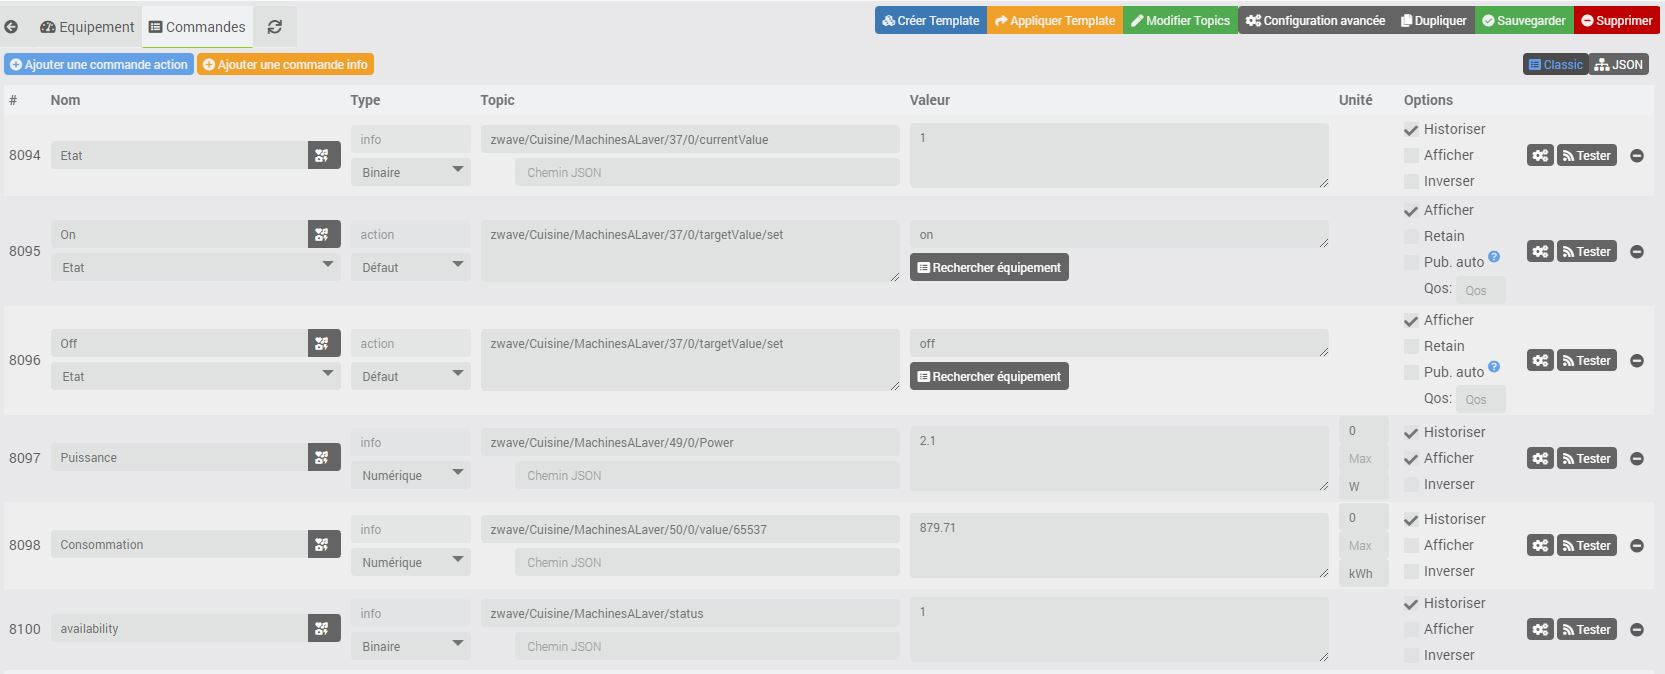
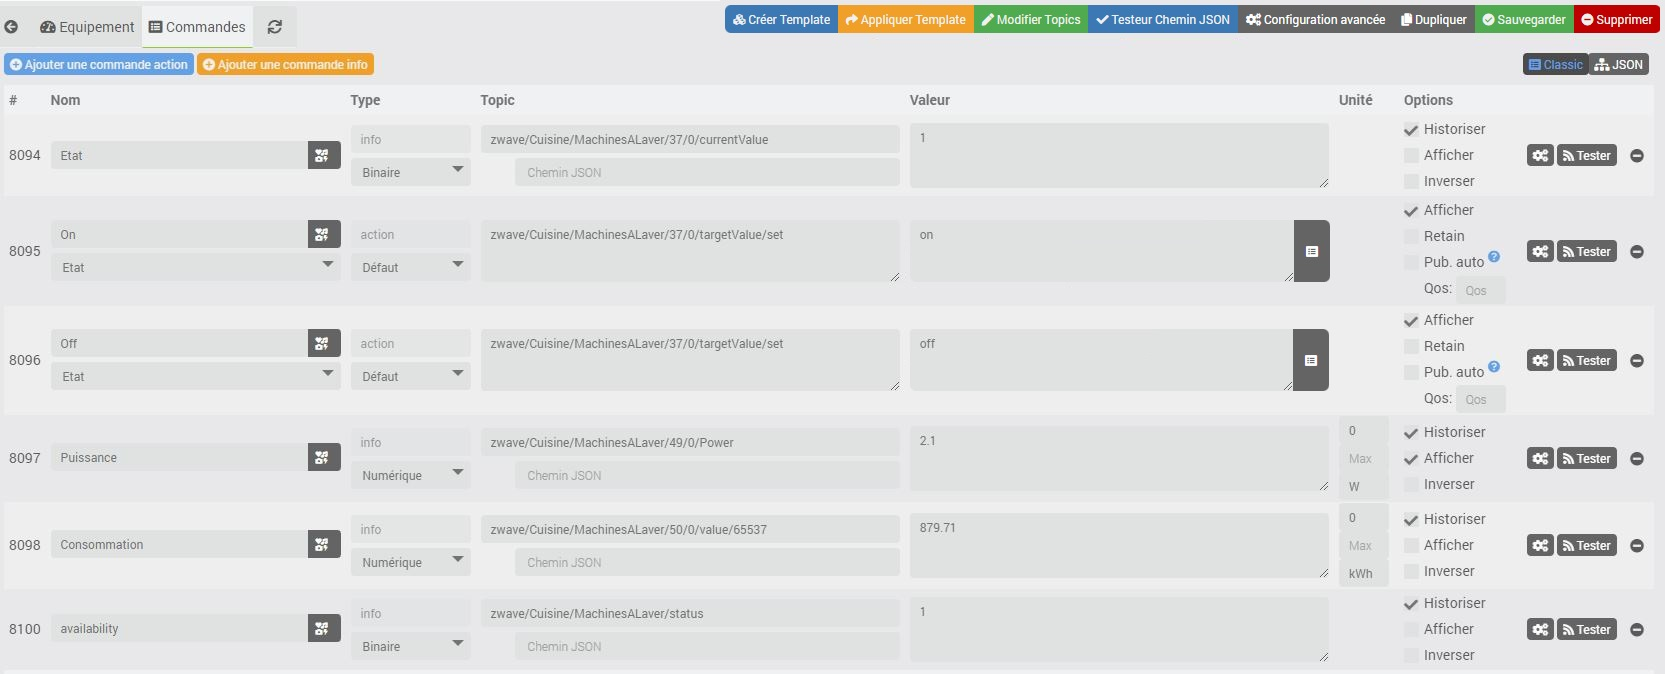
Add jsonPathTester (+ changelog + doc)

diff --git a/desktop/js/jMQTT.js b/desktop/js/jMQTT.js
@@ -494,6 +494,12 @@ $('.eqLogicAction[data-action=updateTopics]').off('click').on('click', function 
 	});
 });
 
+// On jsonPathTester click
+$('.eqLogicAction[data-action=jsonPathTester]').off('click').on('click', function () {
+	$('#md_modal').dialog({title: "{{Testeur de Chemin JSON}}"});
+	$('#md_modal').load('index.php?v=d&plugin=jMQTT&modal=jsonPathTester').dialog('open');
+});
+
 // On addMQTTInfo click
 $('.eqLogicAction[data-action=addMQTTInfo]').on('click', function() {
 	var _cmd = {type: 'info'};

diff --git a/desktop/modal/jsonPathTester.php b/desktop/modal/jsonPathTester.php
@@ -1,0 +1,79 @@
+<?php
+/* This file is part of Jeedom.
+*
+* Jeedom is free software: you can redistribute it and/or modify
+* it under the terms of the GNU General Public License as published by
+* the Free Software Foundation, either version 3 of the License, or
+* (at your option) any later version.
+*
+* Jeedom is distributed in the hope that it will be useful,
+* but WITHOUT ANY WARRANTY; without even the implied warranty of
+* MERCHANTABILITY or FITNESS FOR A PARTICULAR PURPOSE. See the
+* GNU General Public License for more details.
+*
+* You should have received a copy of the GNU General Public License
+* along with Jeedom. If not, see <http://www.gnu.org/licenses/>.
+*/
+
+if (!isConnect('admin')) {
+  throw new Exception('{{401 - Accès non autorisé}}');
+}
+?>
+
+<div id="div_alertExpressionTest" data-modalType="md_expressionTest"></div>
+<form class="form-horizontal" onsubmit="return false;" style="width:100%">
+  <div class="input-group input-group-sm" style="width:100%">
+    <span class="input-group-addon roundedLeft" style="width:20%"><i class="fas fa-truck-loading"></i> {{Payload}}</span>
+    <textarea class="form-control input-sm roundedRight" id="in_testPayload" style="min-height:80px;height:80px"></textarea>
+  </div>
+  <div class="input-group input-group-sm" style="width:100%">
+  </div>
+  <div class="input-group input-group-sm " style="width:100%">
+    <span class="input-group-addon roundedLeft" style="width:20%"><i class="fas fa-binoculars"></i> {{Chemin JSON}}</span>
+    <input class="form-control input-sm" id="in_testJsonPath">
+    <span class="input-group-btn">
+      <a class="btn btn-sm btn-default btn-success roundedRight" id="bt_executeTestJsonPath"><i class="fas fa-bolt"></i> {{Exécuter}}</a>
+    </span>
+  </div>
+</br>
+<legend id="out_status"><i class="fas fa-sign-in-alt"></i> {{Résultat}} <span id="out_message"></span></legend>
+<div id="div_expressionTestResult" style="width:100%"></div>
+<textarea class="form-control input-sm roundedRight" id="out_testResult" style="min-height:80px;height:80px"></textarea>
+</form>
+
+<script>
+$(function() {
+	if ($(window).width() > 800)
+		$('#md_modal').dialog("option", "width", 800);
+	if ($(window).height() > 330)
+		$('#md_modal').dialog("option", "height", 330);
+});
+
+$('#in_testJsonPath').keypress(function(event) {
+	if (event.which == 13) {
+		$('#bt_executeTestJsonPath').trigger('click');
+	}
+});
+
+$('#bt_executeTestJsonPath').on('click',function() {
+	$('#out_status').removeClass('success danger');
+	$('#out_testResult').empty();
+	$('#out_message').empty();
+	jmqtt.callPluginAjax({
+		data: {
+			action: "testJsonPath",
+			payload: $('#in_testPayload').val(),
+			jsonPath: $('#in_testJsonPath').val()
+		},
+		error: function (error) {
+			$('#out_status').addClass('danger');
+		},
+		success: function (data) {
+			console.log(data);
+			(data.success) ? $('#out_status').addClass('success') : $('#out_status').addClass('danger');
+			$('#out_testResult').append(data.value);
+			$('#out_message').append('[ ' + data.message + ' ]');
+		}
+	});
+});
+</script>

diff --git a/core/ajax/jMQTT.ajax.php b/core/ajax/jMQTT.ajax.php
@@ -314,6 +314,50 @@ try {
 		}
 	}
 
+	if (init('action') == 'testJsonPath') {
+		$payload = init('payload');
+		if ($payload == '') {
+			ajax::success(array('success' => false, 'message' => __('Pas de payload', __FILE__), 'value' => ''));
+			return;
+		}
+
+		$jsonArray = json_decode($payload, true);
+		if (!is_array($jsonArray) || json_last_error() != JSON_ERROR_NONE) {
+			if (json_last_error() == JSON_ERROR_NONE)
+				ajax::success(array('success' => false, 'message' => __("Problème de format JSON: Le message reçu n'est pas au format JSON.", __FILE__), 'value' => ''));
+			else
+				ajax::success(array('success' => false, 'message' => sprintf(__("Problème de format JSON: %1\$s (%2\$d)", __FILE__), json_last_error_msg(), json_last_error()), 'value' => ''));
+		}
+
+		if (file_exists(__DIR__ . '/../../resources/JsonPath-PHP/vendor/autoload.php'))
+			require_once __DIR__ . '/../../resources/JsonPath-PHP/vendor/autoload.php';
+		if (!class_exists('JsonPath\JsonObject'))
+			throw new Exception(__("La bibliothèque JsonPath-PHP n'a pas été trouvée, relancez les dépendances", __FILE__));
+
+		$jsonPath = init('jsonPath');
+		if ($jsonPath[0] != '$')
+			$jsonPath = '$' . $jsonPath;
+
+		// Create JsonObject for JsonPath
+		try {
+			$jsonobject = new JsonPath\JsonObject($jsonArray);
+			$value = $jsonobject->get($jsonPath);
+		} catch (Throwable $e) {
+			ajax::success(array('success' => false, 'message' => __("Exception: ", __FILE__) . $e->getMessage(), 'stack' => $e->getTraceAsString(), 'value' => ''));
+			if (log::getLogLevel(__CLASS__) > 100)
+				$this->getEqLogic()->log('warning', sprintf(__("Chemin JSON '%1\$s' de la commande #%2\$s# a levé l'Exception: %3\$s", __FILE__),
+															$this->getJsonPath(), $this->getHumanName(), $e->getMessage()));
+			else // More info in debug mode, no big log otherwise
+				$this->getEqLogic()->log('warning', str_replace("\n",' <br /> ', sprintf(__("Chemin JSON '%1\$s' de la commande #%2\$s# a levé l'Exception: %3\$s", __FILE__).
+							",<br />@Stack: %4\$s.", $this->getJsonPath(), $this->getHumanName(), $e->getMessage(), $e->getTraceAsString())));
+		}
+
+		if ($value !== false && $value !== array())
+			ajax::success(array('success' => true, 'message' => 'OK', 'value' => json_encode((count($value) > 1) ? $value : $value[0], JSON_UNESCAPED_SLASHES | JSON_UNESCAPED_UNICODE)));
+		else
+			ajax::success(array('success' => false, 'message' => __("Le Chemin JSON n'a pas retourné de résultat sur ce message json", __FILE__), 'value' => ''));
+	}
+
 	throw new Exception(__('Aucune méthode Ajax ne correspond à :', __FILE__) . ' ' . init('action'));
 	/*     * *********Catch exeption*************** */
 } catch (Exception $e) {

diff --git a/desktop/php/jMQTT.php b/desktop/php/jMQTT.php
@@ -134,6 +134,7 @@ function displayActionCard($action_name, $fa_icon, $action = '', $class = '') {
 				<a class="btn btn-primary btn-sm eqLogicAction typ-std roundedLeft toDisable" data-action="createTemplate" style="display: none;"><i class="fas fa-cubes"></i> {{Créer Template}}</a>
 				<a class="btn btn-warning btn-sm eqLogicAction typ-std toDisable" data-action="applyTemplate" style="display: none;"><i class="fas fa-share"></i> {{Appliquer Template}}</a>
 				<a class="btn btn-success btn-sm eqLogicAction typ-std toDisable" data-action="updateTopics" style="display: none;"><i class="fas fa-pen"></i> {{Modifier Topics}}</a>
+				<a class="btn btn-primary btn-sm eqLogicAction typ-std" data-action="jsonPathTester"><i class="fas fa-check"></i> {{Testeur Chemin JSON}}</a>
 				<a class="btn btn-default btn-sm eqLogicAction" data-action="configure"><i class="fas fa-cogs"></i> {{Configuration avancée}}</a>
 				<a class="btn btn-default btn-sm eqLogicAction typ-std toDisable" data-action="copy" style="display: none;"><i class="fas fa-copy"></i> {{Dupliquer}}</a>
 				<a class="btn btn-success btn-sm eqLogicAction" data-action="save"><i class="fas fa-check-circle"></i> {{Sauvegarder}}</a>

diff --git a/docs/fr_FR/index_beta.md b/docs/fr_FR/index_beta.md
@@ -277,9 +277,10 @@ Concernant les boutons en haut à droite :
 
 ![Boutons sur un Equipement](../images/2022-10-26_eqpt_buttons.png)
 
-  - `Appliquer template` permet d'[Appliquer un template existant à l'équipement en cours](#application-dun-template-sur-un-équipement) ;
   - `Créer template` permet de [Créer un template à partir de l'équipement en cours](#création-dun-template-depuis-un-équipement) ;
-  - `Modifier Topics` permet de Modifier en masse tous les topics de l'équipement courant (pensez à sauvegarder l'équipement après la modification) ;
+  - `Appliquer template` permet d'[Appliquer un template existant à l'équipement en cours](#application-dun-template-sur-un-équipement) ;
+  - `Modifier Topics` permet de modifier en masse tous les topics de l'équipement courant (pensez à sauvegarder l'équipement après la modification) ;
+  - `Testeur Chemin JSON` permet de tester comment un payload sera traité par un certain chemin JSON ;
   - `Dupliquer` permet de [Dupliquer un équipement](#dupliquer-un-équipement).
 
 ### Onglet Commandes

diff --git a/docs/fr_FR/changelog_beta.md b/docs/fr_FR/changelog_beta.md
@@ -7,6 +7,7 @@
 - Correction des problèmes de multi-lancement du démon avec des signaux de vie entre le démon et Jeedom
 - Correction d'un problème d'affichage et de gestion des équipements orphelins sur la page principale du plugin
 - Correction d'un problème avec le topic de souscription lors de l'application d'un template
+- Ajout d'un outil de test des chemins Json (documentation à faire, mais fonctionnement simple)
 - Amélioration de l'affichage des commandes Action List
 - Ajout de 14 nouvelles icones : espeasy, intex, location, mcz-remote, old-phone, openmqttgateway, phone, smartphone, repeater, smoke-detector, sonometer, stove, tasmota & theengs
 - Ajout du template Tasmota Nous A1T (merci vberder)
